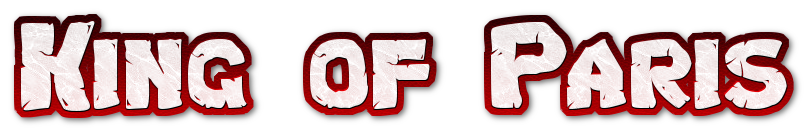
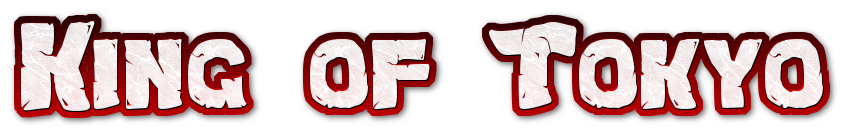
on est a tokyo mtn

Changed region(s): [[0.0, 0.0882, 0.9852, 0.8824], [0.0, 0.1471, 0.0308, 0.2059]]

diff --git a/KingOfTokyo/ClientKoT/Plateau.xaml b/KingOfTokyo/ClientKoT/Plateau.xaml
@@ -271,7 +271,7 @@
         </Grid>
 
 
-        <!-- Paris Ville -->
+        <!-- Tokyo Ville -->
         <Grid Grid.Column="1" Grid.Row="2">
             <Grid.ColumnDefinitions>
                 <ColumnDefinition/>
@@ -282,11 +282,11 @@
                 <RowDefinition Height="1*"/>
             </Grid.RowDefinitions>
 
-            <TextBlock x:Name="Ville" Text="Paris" Foreground="#FFFFFF" Grid.Column="2" Grid.Row="0" VerticalAlignment="Center" HorizontalAlignment="Center"/>
+            <TextBlock x:Name="Ville" Text="Tokyo" Foreground="#FFFFFF" Grid.Column="2" Grid.Row="0" VerticalAlignment="Center" HorizontalAlignment="Center"/>
             <Button Margin="5" x:Name="EntrerVille" Grid.Column="4" Grid.Row="1" VerticalAlignment="Center" HorizontalAlignment="Center">Entrer dans la Ville</Button>
         </Grid>
 
-        <!-- Paris Banlieue -->
+        <!-- Tokyo Bay -->
         <Grid Grid.Column="2" Grid.Row="2">
             <Grid.ColumnDefinitions>
                 <ColumnDefinition/>
@@ -297,7 +297,7 @@
                 <RowDefinition Height="1*"/>
             </Grid.RowDefinitions>
 
-            <TextBlock x:Name="Banlieue" Text="Banlieue" Foreground="#FFFFFF" Grid.Column="2" Grid.Row="0" VerticalAlignment="Center" HorizontalAlignment="Center"/>
+            <TextBlock x:Name="Bay" Text="Tokyo Bay" Foreground="#FFFFFF" Grid.Column="2" Grid.Row="0" VerticalAlignment="Center" HorizontalAlignment="Center"/>
             <Button Margin="5" x:Name="EntrerBanlieue" Grid.Column="4" Grid.Row="1" VerticalAlignment="Center" HorizontalAlignment="Center">Entrer dans la Banlieue</Button>
         </Grid>
 
